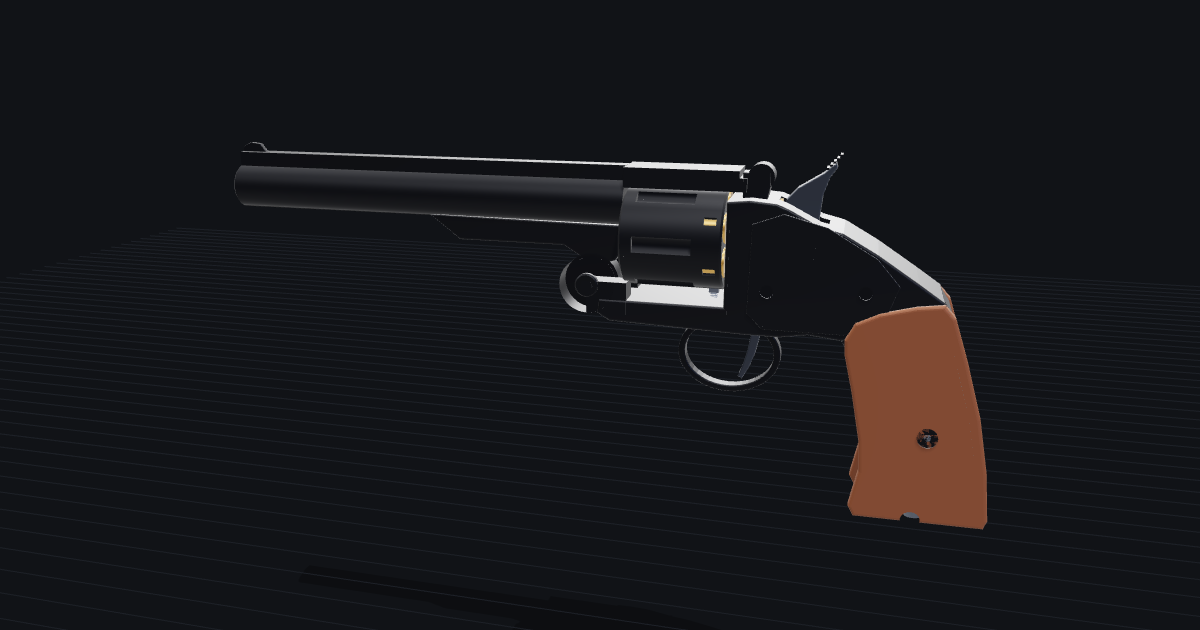
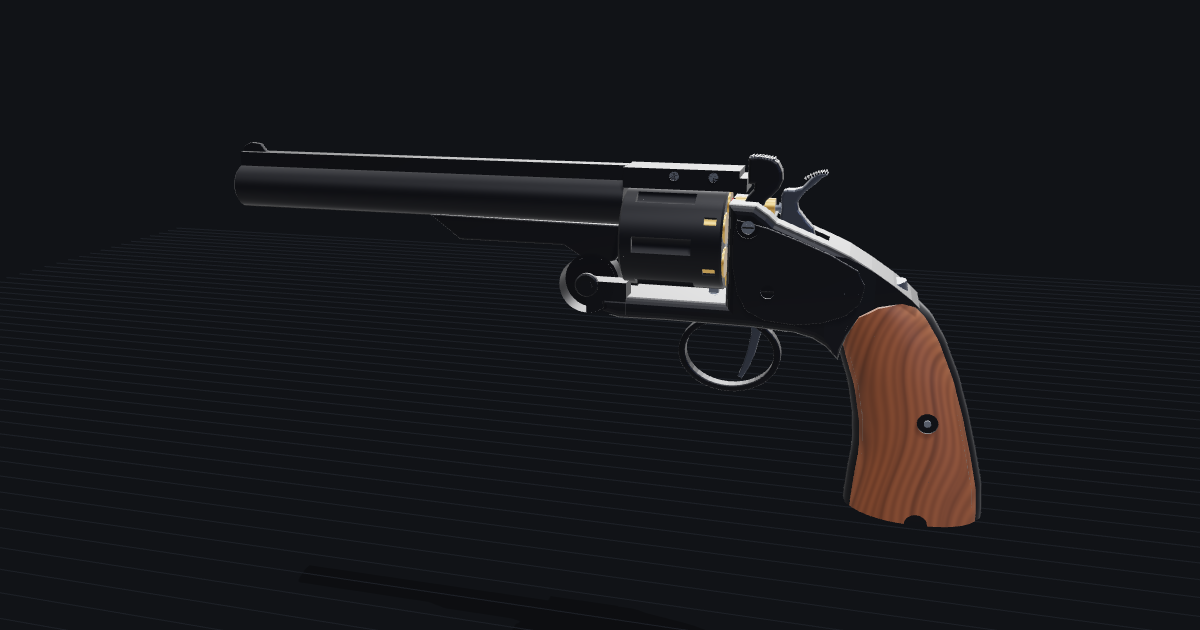
schofield: retrace the frame, grip, latch and hammer from Barra's photos
Barra sells the same WinGun gun; its 2048px left-side photo gives a much
sharper outline. The grip is now lofted through rounded sections and split
round a matching grip frame whose straps show front and back, with a wood
grain shader. The latch gets its round knurled thumb piece, rear sight notch
and ringed pivot screw; the hammer its thin checkered spur. The frame narrows
behind the hammer to the grip's width, and the top strap screws now ride on
the barrel.

diff --git a/schofield/index.html b/schofield/index.html
@@ -412,12 +412,24 @@ const meshes = [];
 const root = new THREE.Group();
 scene.add(root);
 
+// wood grain for the grip panels, from the model-space position (the CSG cuts leave no uv coordinates): streaks running
+// down the grip, wavering a little, with darker rings
+function woodGrain(mat) {
+  mat.onBeforeCompile = sh => {
+    sh.vertexShader = 'varying vec3 vWp;\n' + sh.vertexShader.replace('#include <begin_vertex>', '#include <begin_vertex>\nvWp = position;');
+    sh.fragmentShader = 'varying vec3 vWp;\n' + sh.fragmentShader.replace('#include <color_fragment>', `#include <color_fragment>
+      float u = vWp.x * 0.55 + vWp.y * 0.1 + sin(vWp.y * 0.09 + vWp.z * 0.2) * 1.6 + sin(vWp.y * 0.031) * 3.0;
+      float g = 0.5 + 0.5 * sin(u * 3.1), r = smoothstep(0.82, 1.0, 0.5 + 0.5 * sin(u * 0.9 + 1.3));
+      diffuseColor.rgb *= 0.82 + 0.22 * g - 0.18 * r;`);
+  };
+}
 function part(id, name, cat, explode, info, pieces, opts = {}) {
   const grp = new THREE.Group();
   grp.userData = { id, name, cat, info, explode: new THREE.Vector3(...explode), shell: !!opts.shell };
   for (const [geo, matKey] of pieces) {
     const mat = new THREE.MeshStandardMaterial({ ...MAT[matKey] });
     if (geo.type === 'LatheGeometry') mat.side = THREE.DoubleSide;
+    if (matKey === 'wood') woodGrain(mat);
     const m = new THREE.Mesh(geo, mat);
     m.castShadow = true; m.receiveShadow = true;
     m.userData.part = grp; m.userData.baseEmissive = mat.emissive.getHex();
@@ -518,11 +530,30 @@ const ch = k => [CY + PR * Math.cos(k * 60 * D2R), PR * Math.sin(k * 60 * D2R)];
 const HINGE = [X(398), Y(365)];            // the barrel's hinge, at the front of the frame below the cylinder
 const STRAP = [7, 15.2, X(540)];           // top strap: bottom, top, back end
 const FR_Z = 16;                           // frame half width at the cylinder (estimate)
-const HPV = [X(593), Y(327)];              // hammer pivot (estimate)
+// The frame, grip, latch and hammer are traced from Barra's 2048px left-side photo of the same WinGun gun (its 5in
+// version), at 5.74 px/mm: the scale that gives the same breech-to-grip length as the ASG photo.
+const KB = 5.74, OXB = 1237, OYB = 775;
+const XB = px => (OXB - px) / KB, YB = py => (OYB - py) / KB;
+const PB = pts => pts.map(([a, b]) => [XB(a), YB(b)]);
+const HPV = [XB(1400), YB(855)];           // hammer pivot (estimate: hidden in the frame)
 const TPV = [X(552), Y(392)];              // trigger pivot (estimate)
-const LPV = [X(544), Y(309)];              // barrel latch pivot: the screw under the latch's knob
-const VALVE_X0 = -20.5, STEM_X = -23.4;    // back of the valve body, and the end of its stem that the hammer strikes
-const CO2_T = [-61.7, -33], CO2_A = Math.atan2(-71.7, -15.7);   // top of the CO2 capsule's neck, and the grip's line down to its base
+const LPV = [XB(1287.5), YB(805)];         // barrel latch pivot: the ringed screw under the latch's knob
+const VALVE_X0 = -17.5, STEM_X = -20.1;    // back of the valve body, and the end of its stem that the hammer strikes
+const CO2_T = [-64.2, -36.5], CO2_A = Math.atan2(-63.5, -11.3);   // top of the CO2 capsule's neck, and the grip's line down to its base
+// move each corner of an outline in by d along the bisector of its two edges
+function inset(pts, d) {
+  const n = pts.length; let A = 0;
+  for (let i = 0; i < n; i++) { const [a, b] = pts[i], [c, e] = pts[(i + 1) % n]; A += a * e - c * b; }
+  const sg = A > 0 ? 1 : -1;
+  return pts.map((p, i) => {
+    const a = pts[(i - 1 + n) % n], b = pts[(i + 1) % n];
+    const n1 = new THREE.Vector2(-(p[1] - a[1]), p[0] - a[0]).normalize(), n2 = new THREE.Vector2(-(b[1] - p[1]), b[0] - p[0]).normalize();
+    const m = n1.clone().add(n2).normalize(), k = d / Math.max(0.4, m.dot(n1));
+    return [p[0] + sg * m.x * k, p[1] + sg * m.y * k];
+  });
+}
+// a polyline's x at height py (points ordered by py), for the grip's front and back edges
+const edgeAt = (poly, py) => { for (let i = 0; i < poly.length - 1; i++) { const [x0, y0] = poly[i], [x1, y1] = poly[i + 1]; if (py <= y1) return x0 + (x1 - x0) * (py - y0) / (y1 - y0); } return poly[poly.length - 1][0]; };
 
 // ================= BARREL AND HINGE =================
 part('barrel', 'Barrel + top strap', 'brl', [40, 80, 0],
@@ -532,7 +563,8 @@ part('barrel', 'Barrel + top strap', 'brl', [40, 80, 0],
    [profR(P([[30, 257], [32, 251], [40, 248], [50, 249], [56, 257]]), 2.2, 0.3), 'blued'],                              // front sight
    [profR(P([[236, 310], [266, 333], [370, 333], [385, 342], [398, 352], [420, 345], [430, 330], [430, 312]]), 12, 0.8), 'blued'],   // under-lug
    [cyl(X(398) - X(420) + 0.2, 12, 'z', ...HINGE, 0, 32), 'blued'],                                                      // hinge knuckle
-   [cut(bx(STRAP[2], CYL_X1 + 0.6, STRAP[0], STRAP[1], -9, 9), [bx(STRAP[2] - 1, STRAP[2] + 3, 12.4, 16, -10, 10)]), 'blued']], { shell: true });   // top strap, notched for the latch
+   [cut(bx(STRAP[2], CYL_X1 + 0.6, STRAP[0], STRAP[1], -9, 9), [bx(STRAP[2] - 1, STRAP[2] + 3, 12.4, 16, -10, 10)]), 'blued'],
+   ...[[1110, 704], [1200, 704]].map(([px, py]) => [ringZ(0, 1.9, XB(px), YB(py), -9, -9.6, 16), 'steel'])], { shell: true });   // top strap screws   // top strap, notched for the latch
 
 part('innerBarrel', 'Inner barrel', 'brl', [60, 115, 0],
   'Brass inner barrel inside the outer barrel, from the cylinder gap to just short of the muzzle. The 6mm version has a fixed hop-up (Redwolf).',
@@ -573,36 +605,67 @@ part('extractor', 'Extractor star + rod', 'cyl', [-15, 170, 0],
    [mergeGeometries(Array.from({ length: 6 }, (_, k) => bx(0.2, 1, -1, 1, -3.8, -1.6).rotateX(k * 60 * D2R + 30 * D2R).translate(0, CY, 0))), 'steel']]);   // ratchet teeth
 
 // ================= FRAME AND LOCKWORK =================
-const FR_OUT = P([[525, 282], [545, 280], [568, 282], [578, 286], [605, 300], [625, 305], [655, 322], [690, 345], [712, 360], [718, 372], [700, 380], [645, 396], [628, 400], [600, 397], [576, 401], [545, 401], [480, 399], [420, 397], [408, 390], [410, 377], [525, 377]]);
-const FR_IN = P([[528, 289], [570, 290], [600, 305], [650, 330], [688, 355], [640, 390], [560, 394], [528, 394]]);
-const GF_OUT = P([[712, 360], [720, 372], [732, 415], [746, 460], [756, 505], [760, 552], [652, 553], [654, 520], [650, 490], [643, 450], [634, 412], [628, 400], [645, 394], [700, 378]]);
-const GF_IN = P([[703, 378], [728, 420], [741, 462], [750, 505], [753, 545], [660, 545], [660, 505], [652, 460], [643, 418], [648, 400]]);
+// grip: side outline with the frame's straps at its front and back edges, and the wood's front and back edges
+const GRIPB = [[1500, 1105], [1505, 1080], [1515, 1050], [1540, 1000], [1580, 975], [1630, 964], [1665, 970], [1690, 990], [1730, 1050], [1770, 1140], [1800, 1230],
+  [1825, 1320], [1845, 1400], [1852, 1470], [1848, 1482], [1540, 1482], [1533, 1470], [1538, 1400], [1545, 1330], [1540, 1260], [1525, 1180]];
+const GRIP_FRONT = [[1453, 940], [1500, 1105], [1525, 1180], [1540, 1260], [1545, 1330], [1538, 1400], [1533, 1470], [1533, 1500]];
+const GRIP_BACK = [[1640, 940], [1665, 970], [1690, 990], [1730, 1050], [1770, 1140], [1800, 1230], [1825, 1320], [1845, 1400], [1852, 1470], [1852, 1500]];
+const GRIP_SCREW = [XB(1705), YB(1230)];
+// The grip is lofted through horizontal sections between the traced front and back edges: rounded (superellipse)
+// sections, slimmer at the front, swelling slightly towards the butt, then trimmed to the traced side outline. The
+// frame's grip core is the same shape 7mm slimmer, so only its front and back straps show between the panels.
+const gripLv = (dw, dx) => Array.from({ length: 20 }, (_, i) => { const py = 940 + i * (1490 - 940) / 19, t = i / 19;
+  return { y: YB(py), xf: XB(edgeAt(GRIP_FRONT, py)) - dx, xb: XB(edgeAt(GRIP_BACK, py)) + dx, w: 30 + 5 * Math.sin(Math.PI / 2 * t) + dw }; });
+const gripLoft = (dw, dx) => cut(loft(gripLv(dw, dx), { n: 2.3, seg: 64, frontTaper: 0.8 }), [prof(PB(GRIPB), 60, 0)], INTERSECTION);
+const GRIP_WOOD = gripLoft(0, 1.2), GRIP_CORE = gripLoft(-7, 0), GRIP_CUT = gripLoft(-6.6, 0);   // wood, the frame's grip core inside it, and the core's cutter
+// the frame narrows behind the hammer to the grip's width: its plan outline
+const FR_HALF = x => x > -40 ? FR_Z : x > -58 ? FR_Z - (FR_Z - 13) * (-40 - x) / 18 : 13;
+const frPlan = d => prof([[70, FR_Z - d], [-40, FR_Z - d], [-58, 13 - d], [-140, 13 - d], [-140, -13 + d], [-58, -13 + d], [-40, -FR_Z + d], [70, -FR_Z + d]], 400, 0).rotateX(Math.PI / 2);
+const FR_PLAN = frPlan(0);
+const FR_OUT = PB([[1240, 758], [1300, 760], [1330, 780], [1347, 795], [1460, 840], [1510, 862], [1560, 892], [1610, 925], [1650, 955], [1668, 972],
+  [1630, 964], [1580, 975], [1540, 1000], [1515, 1050], [1505, 1080], [1500, 1105], [1470, 1075], [1440, 1058], [1400, 1048], [1300, 1042], [1100, 1040],
+  [990, 1042], [941, 1032], [945, 990], [1240, 990]]);
+const FR_IN = PB([[1246, 768], [1325, 787], [1460, 850], [1600, 925], [1530, 990], [1495, 1075], [1430, 1050], [1246, 1033]]);
 part('frame', 'Frame', 'frm', [0, 0, 0],
-  'Metal frame: the standing breech behind the cylinder, the hammer slot, the forked lugs at the front that carry the hinge, and the grip frame. The CO2 capsule sits in the grip frame; the valve lives in the frame behind the breech face. All-metal construction (Gunmart).',
-  [[cut(profR(FR_OUT, 2 * FR_Z, 1), [prof(FR_IN, 2 * FR_Z - 4, 0),
-      bx(X(612), X(568), Y(310), Y(276), -4, 4),                      // hammer slot
+  'Metal frame: the standing breech behind the cylinder, the hammer slot, the forked lugs at the front that carry the hinge, and the grip frame, whose rounded front and back straps show between the grip panels. The CO2 capsule sits in the grip frame, open on the left; the valve lives in the frame behind the breech face. All-metal construction (Gunmart).',
+  [[cut(cut(profR(FR_OUT, 2 * FR_Z, 3.5), [FR_PLAN], INTERSECTION), [cut(prof(FR_IN, 2 * FR_Z - 4, 0), [frPlan(2)], INTERSECTION),
+      bx(XB(1462), -18.3, YB(860), YB(780), -4, 4),                    // hammer slot
       bx(X(560), X(540), Y(420), Y(380), -3.5, 3.5),                  // trigger slot
       cyl(3.2, 6, 'x', -1, 0, 0, 16)]), 'blued'],                     // gas port in the breech face
-   [cut(profR(GF_OUT, 24, 1), [prof(GF_IN, 22, 0).translate(0, 0, -4)]), 'blued'],
+   [cut(GRIP_CORE, [prof(inset(PB(GRIPB), 4.5), 24, 0).translate(0, 0, -5)]), 'blued'],   // grip frame, open on the left for the capsule
    ...[-1, 1].map(s => [bx(40, HINGE[0], HINGE[1] - 11.6, HINGE[1] + 2, Math.min(s * 6.3, s * (FR_Z - 0.6)), Math.max(s * 6.3, s * (FR_Z - 0.6))), 'blued']),   // forked hinge lugs
    ...[-1, 1].map(s => [ringZ(2.4, 11.6, ...HINGE, s * 6.3, s * (FR_Z - 0.6), 32), 'blued'])], { shell: true });
 
 part('sideplate', 'Sideplate', 'frm', [0, 0, -55],
-  'Plate on the left of the frame over the lockwork, held by two screws.',
-  [[profR(P([[548, 300], [575, 290], [612, 300], [655, 325], [675, 348], [662, 385], [630, 394], [560, 394], [546, 380]]), 1, 0.3).translate(0, 0, -FR_Z - 0.3), 'blued'],
-   ...[[563, 359], [647, 355]].map(([px, py]) => [ringZ(0, 2.6, X(px), Y(py), -FR_Z - 0.6, -FR_Z - 1.5, 16), 'steel'])], { shell: true });
+  'Plate on the left of the frame over the lockwork, held by two screws, its edge following the curve of the frame behind the cylinder.',
+  [[profR(PB([[1262, 790], [1330, 805], [1400, 830], [1470, 858], [1530, 890], [1548, 925], [1540, 965], [1510, 995], [1460, 1015], [1400, 1024], [1330, 1018],
+      [1290, 998], [1268, 960], [1256, 900], [1254, 830]]), 1.2, 0.4).translate(0, 0, -FR_Z - 0.3), 'blued'],
+   ...[[1337, 950], [1520, 940]].flatMap(([px, py]) => { const z = -FR_HALF(XB(px)); return [[ringZ(0, 2.7, XB(px), YB(py), z - 0.8, z - 1.7, 20), 'steel'],
+     [bx(XB(px) - 2.4, XB(px) + 2.4, YB(py) - 0.3, YB(py) + 0.3, z - 1.9, z - 1.4), 'black']]; })], { shell: true });
 
+// latch, traced: the round-topped thumb piece with its knurled top and rear sight notch, the neck, and the boss round
+// its pivot screw on the left of the frame
+const LATCH = PB([[1274, 660], [1300, 657], [1325, 661], [1340, 670], [1350, 690], [1352, 710], [1345, 728], [1330, 745], [1316, 758], [1310, 780], [1312, 805],
+  [1305, 825], [1288, 832], [1268, 825], [1260, 805], [1262, 775], [1275, 748], [1288, 732], [1289, 720], [1274, 720]]);
 part('latch', 'Barrel latch', 'frm', [-15, 80, 0],
-  'Lever on the frame in front of the hammer, with a round knob on top. Its nose hooks over the end of the top strap; thumb the knob back and the barrel is free to tip down (Redwolf: “a lever in front of the hammer”). A spring pushes it forward again.',
-  [[profR([[LPV[0] - 3, LPV[1] - 3], [LPV[0] + 3, LPV[1] - 3], [STRAP[2] + 1.8, 12.4], [STRAP[2] + 1.8, 14.6], [X(560), 14.6], [X(560), 9]], 9, 0.5).translate(0, 0, -3), 'blued'],
-   [cyl(5.2, 9, 'z', X(552), Y(262), -3, 28), 'blued'], [cyl(1.4, 12, 'z', ...LPV, -3, 12), 'steel']]);
+  'Lever on the frame in front of the hammer, pivoting on the ringed screw low on its left side. Its round-topped thumb piece is knurled across the top and notched for the rear sight; its lip hooks over the end of the top strap. Thumb it back and the barrel is free to tip down (Redwolf: “a lever in front of the hammer”). A spring pushes it forward again.',
+  [[cut(profR(LATCH, 9, 1.2), [bx(XB(1360), XB(1265), YB(668), YB(650), -0.9, 0.9)]), 'blued'],                     // rear sight notch along the top
+   [mergeGeometries(Array.from({ length: 8 }, (_, i) => { const t = (i + 0.5) / 8, x = XB(1278 + 56 * t), y = YB(659 + 5 * t * t) + 0.1;
+     return bx(x - 0.3, x + 0.3, y - 0.5, y + 0.3, -4.4, 4.4); })), 'dark'],                                                   // knurling
+   [ringZ(0, 4.4, ...LPV, -FR_Z - 0.2, -FR_Z - 1.3, 28), 'blued'], [ringZ(0, 2.6, ...LPV, -FR_Z - 1.3, -FR_Z - 1.9, 20), 'steel'],
+   [bx(LPV[0] - 2.2, LPV[0] + 2.2, LPV[1] - 0.3, LPV[1] + 0.3, -FR_Z - 2.1, -FR_Z - 1.6).rotateZ(0), 'black'],
+   [cyl(1.4, 2 * FR_Z, 'z', ...LPV, 0, 12), 'steel']]);
 
-// hammer, traced at rest: spur, front face over the valve stem, and the body down round the pivot
-const HAM = P([[605, 258], [611, 252], [615, 249], [616, 253], [610, 262], [605, 278], [603, 300], [602, 322], [600, 336], [592, 340], [584, 336], [580, 322], [578, 300], [572, 288], [574, 282], [583, 272]]);
+// hammer, traced at rest: the thin spur curling up and back with its checkering, the face over the valve stem, and the
+// body down round the pivot inside the frame (that part estimated)
+const HAM = PB([[1451, 691], [1440, 689], [1427, 692], [1415, 702], [1405, 715], [1395, 725], [1380, 730], [1365, 730], [1355, 733], [1350, 745], [1350, 755],
+  [1352, 770], [1350, 795], [1355, 830], [1365, 860], [1385, 880], [1410, 885], [1428, 870], [1432, 840], [1425, 815], [1410, 800], [1402, 790], [1390, 775],
+  [1387, 760], [1392, 750], [1405, 732], [1420, 720], [1437, 702], [1450, 695]]);
 part('hammer', 'Hammer', 'frm', [-40, 80, 0],
-  'Single action only: thumb the hammer back to turn the cylinder and set the trigger, then the trigger lets it fall (Gunmart, davekearley.co.uk). On the CO2 gun the hammer does not touch the shell: it strikes the valve stem in the frame behind the breech face, which lets a measure of gas through to the shell (WinGun’s hammer-fired valve, Booligan Airsoft review). The full-cock notch on its underside holds it on the trigger.',
-  [[cut(profR(HAM, 7, 0.6), [cyl(1.8, 10, 'z', ...HPV, 0, 14)]), 'dark'],
-   [mergeGeometries(Array.from({ length: 5 }, (_, i) => bx(-0.5, 0.5, -0.4, 0.4, -3.6, 3.6).translate(X(608) - i * 1.2, Y(254) + i * 1.3, 0))), 'blued'],   // spur checkering
+  'Single action only: thumb the hammer back to turn the cylinder and set the trigger, then the trigger lets it fall (Gunmart, davekearley.co.uk). On the CO2 gun the hammer does not touch the shell: it strikes the valve stem in the frame behind the breech face, which lets a measure of gas through to the shell (WinGun’s hammer-fired valve, Booligan Airsoft review). The spur is checkered on top; the full-cock notch on the underside holds it on the trigger.',
+  [[cut(profR(HAM, 7, 1), [cyl(1.8, 10, 'z', ...HPV, 0, 14)]), 'dark'],
+   [mergeGeometries(Array.from({ length: 9 }, (_, i) => { const t = (i + 0.5) / 9, x0 = XB(1450 - 52 * t), y0 = YB(690 + 20 * t * t) + 0.25, a = Math.atan2(-40 * t / KB, 52 / KB);
+     return bx(-0.3, 0.3, -0.5, 0.4, -3.3, 3.3).rotateZ(a).translate(x0, y0, 0); })), 'blued'],                             // spur checkering
    [cyl(1.6, 14, 'z', ...HPV, 0, 14), 'steel']]);
 
 part('hammerSpring', 'Hammer spring + strut', 'frm', [-80, 60, 0],
@@ -616,7 +679,7 @@ const TRG = P([[546, 392], [556, 388], [560, 393], [556, 410], [552, 428], [547,
 part('trigger', 'Trigger', 'frm', [0, -90, 0],
   'Curved trigger in the round guard. Its upper arm is the sear: it catches the hammer’s full-cock notch, and a short pull frees it. Light and predictable (Gunmart); with the hammer down it does nothing.',
   [[profR(TRG, 5, 0.5), 'dark'],
-   [profR([[TPV[0] + 1.5, TPV[1] + 2], [TPV[0] - 2, TPV[1] - 1], [-25, -26], [-22.5, -23.5]], 4, 0.4), 'dark'],   // sear arm
+   [profR([[TPV[0] + 1.5, TPV[1] + 2], [TPV[0] - 2, TPV[1] - 1], [-25.5, -21.5], [-23, -19.8]], 4, 0.4), 'dark'],   // sear arm
    [cyl(1.3, 9, 'z', ...TPV, 0, 12), 'steel'],
    [spring(1.6, 0.35, 9, 6, 'x', TPV[0] + 1, TPV[1] + 7, 0), 'spring']]);
 
@@ -644,7 +707,7 @@ part('valveStem', 'Valve stem (knocker)', 'gas', [-170, 95, 0],
 
 part('gasTube', 'Gas route', 'gas', [-150, 0, 0],
   'Passage from the capsule’s piercing seat at the top of the grip forward under the hammer and up into the valve. Drawn as a tube; in the gun it may be drilled through the frame.',
-  [[tubeAlong([[CO2_T[0] + 3, CO2_T[1] + 4, 6], [-45, -32, 7], [-22, -33, 7], [-10, -26, 6], [-9, -6, 3], [-10, -3.5, 0]], 1.1, 60), 'brass']]);
+  [[tubeAlong([[CO2_T[0] + 1.1, CO2_T[1] + 6, 4], [-45, -32, 7], [-22, -33, 7], [-10, -26, 6], [-9, -6, 3], [-10, -3.5, 0]], 1.1, 60), 'brass']]);
 
 part('co2Seat', 'Piercing seat', 'gas', [-150, -20, 0],
   'Block at the top of the grip frame with the piercing pin and seal that the capsule’s neck is screwed up against.',
@@ -657,18 +720,20 @@ part('co2', 'CO2 capsule (12g)', 'gas', [-150, -40, 0],
 
 part('co2Screw', 'Piercing screw', 'gas', [-150, -60, 0],
   'Screw in the base of the grip that pushes the capsule up onto the piercing pin; it takes the hex key (Gunmart).',
-  [[alongDir(latheX([[0, 83], [6, 83], [6, 85], [3.6, 85], [3.6, 92], [5.6, 92], [5.6, 95], [0, 95]], 24), CO2_A, ...CO2_T), 'steel']]);
+  [[alongDir(latheX([[0, 83], [6, 83], [6, 84.5], [3.6, 84.5], [3.6, 86], [5.6, 86], [5.6, 88], [0, 88]], 24), CO2_A, ...CO2_T), 'steel']]);
 
 // ================= GRIPS =================
-const GRIP = P([[632, 398], [640, 382], [660, 372], [690, 364], [712, 361], [722, 372], [735, 410], [750, 460], [760, 510], [765, 555], [762, 563], [650, 564], [645, 555], [652, 520], [650, 490], [641, 445], [633, 412]]);
+// The grip is lofted through horizontal sections between the traced front and back edges: rounded (superellipse)
+// sections, slimmer at the front, swelling slightly towards the butt, then trimmed to the traced side outline and split
+// down the middle round the grip frame.
+const gripHalf = s => cut(GRIP_WOOD, [bx(-140, 0, -140, 0, s < 0 ? 0 : -30, s < 0 ? 30 : 0), GRIP_CUT,
+  ...(s < 0 ? [cyl(4.5, 20, 'z', XB(1700), YB(1482), -12, 20)] : [])]);                        // finger notch at the base of the left panel
 part('gripL', 'Left grip panel', 'grp', [0, -20, -70],
-  'Wood-effect synthetic panel. It comes off to load the CO2: lift it at the small finger notch at its base (Gunmart). Take grip off (G) in the View panel.',
-  [[cut(profR(GRIP, 6, 1.4), [cyl(4, 20, 'z', X(700), Y(562), 0, 20)]).translate(0, 0, -15), 'wood'],
-   [ringZ(0, 4, X(708), Y(481), -18, -18.6, 20), 'blued']], { shell: true });
+  'Wood-effect synthetic panel, rounded over its face and edges. It comes off to load the CO2: lift it at the small finger notch at its base (Gunmart). Take grip off (G) in the View panel.',
+  [[gripHalf(-1), 'wood'], [ringZ(0, 4, ...GRIP_SCREW, -17.2, -18, 20), 'blued']], { shell: true });
 part('gripR', 'Right grip panel + screw', 'grp', [0, -20, 70],
   'Right panel, fixed. Its screw holds both panels.',
-  [[profR(GRIP, 6, 1.4).translate(0, 0, 15), 'wood'],
-   [ringZ(0, 4, X(708), Y(481), 18, 18.6, 20), 'blued'], [cyl(1.4, 36, 'z', X(708), Y(481), 0, 10), 'steel']], { shell: true });
+  [[gripHalf(1), 'wood'], [ringZ(0, 4, ...GRIP_SCREW, 17.2, 18, 20), 'blued'], [cyl(1.4, 36, 'z', ...GRIP_SCREW, 0, 10), 'steel']], { shell: true });
 
 
 // ---------- UI: list ----------
@@ -795,6 +860,7 @@ info.addEventListener('click', e => { if (info.classList.contains('peek') && !e.
 // ---------- info panel ----------
 const SOURCES = `<p class="src">Sources: <a href="https://www.redwolfairsoft.com/gas-blow-back-pistols-gun-heaven-gun-heaven-1877-major-3-6mm-co2-revolver-black.html">Redwolf, WinGun 1877 Major 3</a> (specs: 330mm, 1.08kg, 315 FPS, fixed hop-up; the latch, CO2 and shells),
 <a href="https://wolfarmouries.co.uk/asg-schofield-s-w-model-3-major-3-co2-airsoft-revolver.html">Wolf Armouries, ASG Schofield</a> (left-side product photo, side profile traced at 2.23 px/mm; 320mm, about 420 FPS),
+<a href="https://www.barraairguns.com/products/schofield-6mm-airsoft-co2-pistol-aged">Barra Airguns, Schofield 5in Airsoft</a> (the same WinGun gun: frame, grip, latch and hammer traced from the 2048px left-side photo at 5.74 px/mm; the grip, latch and rear sight from the three-quarter views),
 <a href="https://davekearley.co.uk/asg-schofield/">davekearley.co.uk review</a> (photos of the gun open, the shells and the CO2 in the grip; single action, 60 shots a capsule),
 <a href="https://www.gunmart.net/gun-reviews/airguns/air-pistols/schofield-6-revolver">Gunmart review</a> (loading the CO2, the hex key, the break action and extractor),
 <a href="https://www.booliganairsoft.com/2012/12/wingun-7-series-co2-revolver.html">Booligan Airsoft, WinGun 7 series</a> (WinGun's hammer-fired valve and shell seals),
